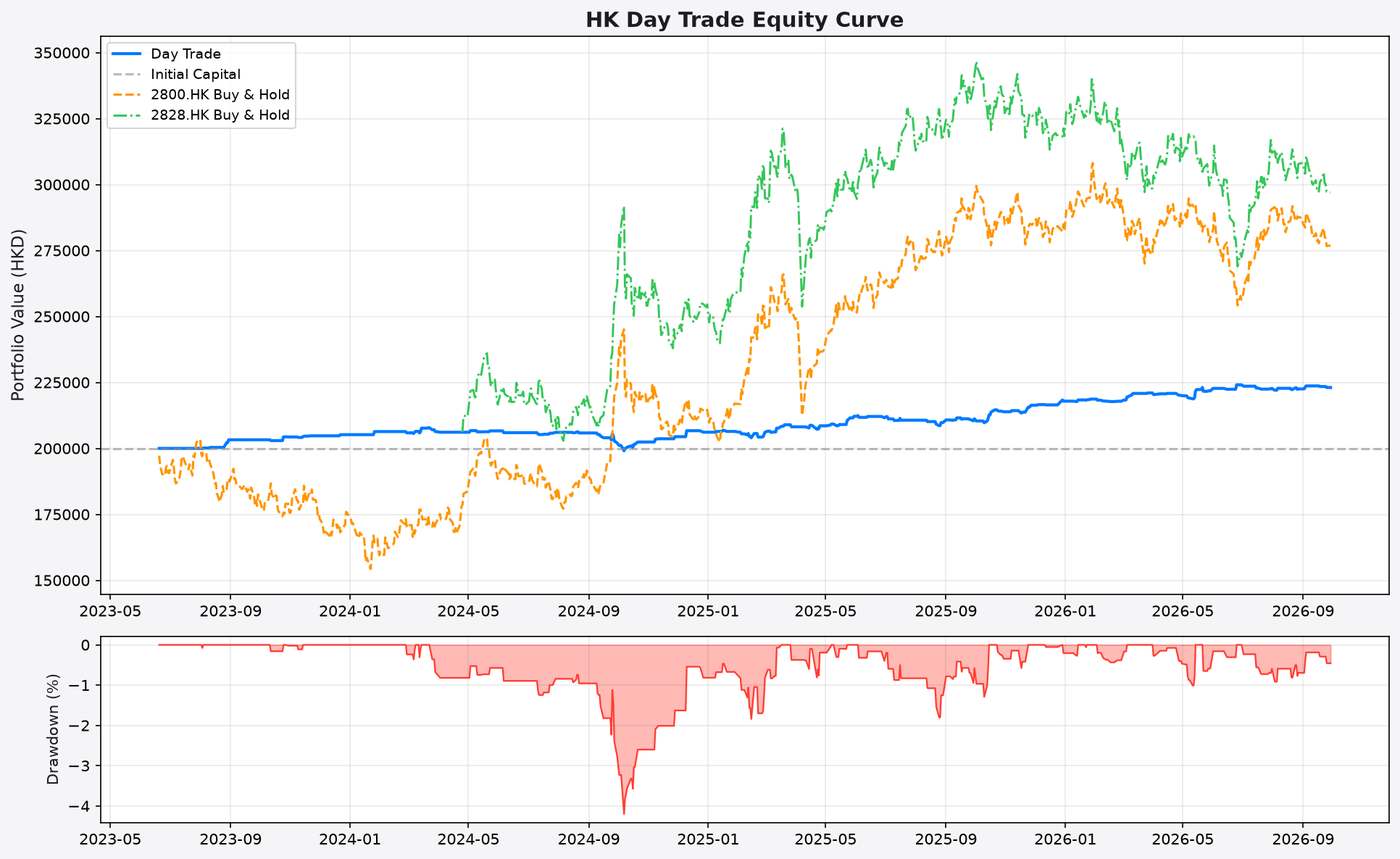
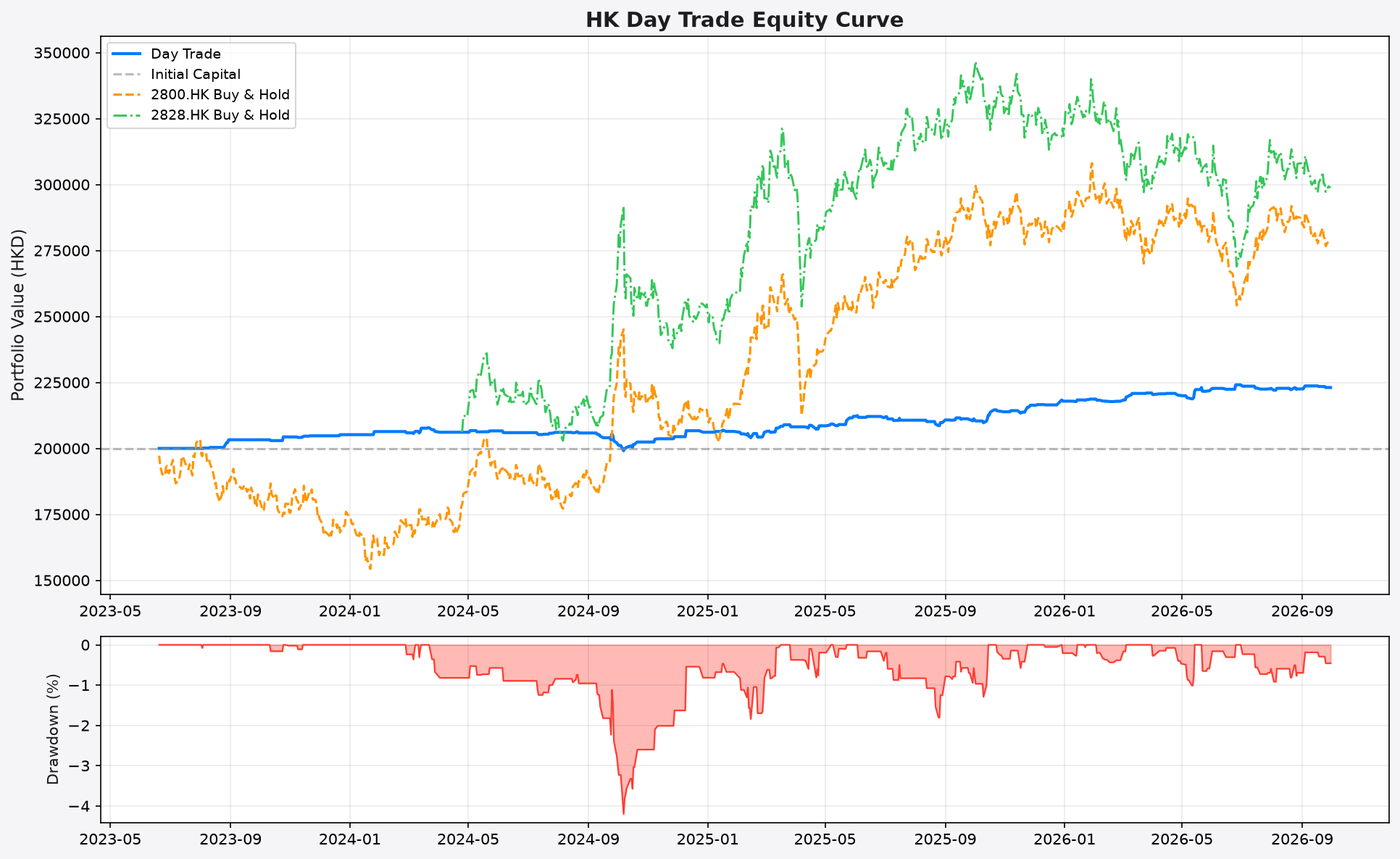
📊 AI Report v8.5 + Paper Trading (2026-09-30)

diff --git a/stock_report.html b/stock_report.html
@@ -3,7 +3,7 @@
 <head>
     <meta charset="utf-8">
     <meta name="viewport" content="width=device-width, initial-scale=1.0">
-    <title>AI 港股量化交易 v8.5 — 2026-09-29</title>
+    <title>AI 港股量化交易 v8.5 — 2026-09-30</title>
     <meta name="description" content="AI 驅動的港股量化交易系統 v8.5，完整風險報告、Benchmark 對比、OCO 智慧掛單建議">
     <script>
         (function() {
@@ -292,7 +292,7 @@
 
     <h1>🎯 AI 港股量化交易 v8.5</h1>
     <p class="subtitle">
-        Event-Driven System &nbsp;|&nbsp; 報表日期: 2026-09-29 &nbsp;|&nbsp;
+        Event-Driven System &nbsp;|&nbsp; 報表日期: 2026-09-30 &nbsp;|&nbsp;
         <span class="config-badge">🛡 ATR×3.0/3.0</span>
         <span class="config-badge">🌐 Universe-60</span>
         <span class="config-badge">🎯 Top-12</span>
@@ -305,11 +305,11 @@
     <div class="stats">
         <div class="stat-card">
             <div class="label">策略總報酬率</div>
-            <div class="value" style="color:#00ff00;">+59.1%</div>
+            <div class="value" style="color:#00ff00;">+61.4%</div>
         </div>
         <div class="stat-card">
             <div class="label">年化報酬率</div>
-            <div class="value" style="color:#00ff00;">+17.0%</div>
+            <div class="value" style="color:#00ff00;">+17.5%</div>
         </div>
         <div class="stat-card">
             <div class="label">年化波動率</div>
@@ -317,11 +317,11 @@
         </div>
         <div class="stat-card risk">
             <div class="label">Sharpe Ratio</div>
-            <div class="value" style="color:#00ff00;">0.79</div>
+            <div class="value" style="color:#00ff00;">0.81</div>
         </div>
         <div class="stat-card risk">
             <div class="label">Sortino Ratio</div>
-            <div class="value">1.03</div>
+            <div class="value">1.07</div>
         </div>
         <div class="stat-card risk">
             <div class="label">最大回撤</div>
@@ -329,7 +329,7 @@
         </div>
         <div class="stat-card risk">
             <div class="label">Calmar Ratio</div>
-            <div class="value">0.93</div>
+            <div class="value">0.96</div>
         </div>
         <div class="stat-card">
             <div class="label">完成交易數</div>
@@ -372,28 +372,28 @@
             </tr>
         </thead>
         <tbody>
-<tr><td>1548</td><td>5.40</td><td>41.4</td><td><span style="color:#00ff00; font-weight:bold;">🟢 建議買進 #1</span></td><td><b>停利:</b> <span style="color:#00ff00">50.2</span> (+21.4%) <br><b>停損:</b> <span style="color:#ff4444">32.6</span> (-21.4%) <br><b>最晚出場:</b> 2026-10-29</td><td><span style="font-size:0.72rem; color:#888;">歷史 <b>7</b>筆 | 勝率 <b style="color:#00ff00">57%</b> | 均報酬 <b style="color:#00ff00">+5.3%</b></span></td><td><span style="font-size:0.78rem;">⚪ 無資料<br><span style="color:#888; font-weight:bold;">+0.0%</span></span></td><td><span style="font-size:0.78rem;">⚪ 中性</span></td></tr>
-<tr><td>2269</td><td>5.31</td><td>53.5</td><td><span style="color:#00ff00; font-weight:bold;">🟢 建議買進 #2</span></td><td><b>停利:</b> <span style="color:#00ff00">59.3</span> (+10.9%) <br><b>停損:</b> <span style="color:#ff4444">47.7</span> (-10.9%) <br><b>最晚出場:</b> 2026-10-29</td><td><span style="font-size:0.72rem; color:#888;">歷史 <b>11</b>筆 | 勝率 <b style="color:#00ff00">55%</b> | 均報酬 <b style="color:#00ff00">+1.2%</b></span></td><td><span style="font-size:0.78rem;">⚪ 無資料<br><span style="color:#888; font-weight:bold;">+0.0%</span></span></td><td><span style="font-size:0.78rem;">⚪ 中性</span></td></tr>
-<tr><td>9926</td><td>5.30</td><td>106.3</td><td><span style="color:#00ff00; font-weight:bold;">🟢 建議買進 #3</span></td><td><b>停利:</b> <span style="color:#00ff00">121.2</span> (+14.0%) <br><b>停損:</b> <span style="color:#ff4444">91.4</span> (-14.0%) <br><b>最晚出場:</b> 2026-10-29</td><td><span style="font-size:0.72rem; color:#888;">歷史 <b>13</b>筆 | 勝率 <b style="color:#00ff00">62%</b> | 均報酬 <b style="color:#00ff00">+5.4%</b></span></td><td><span style="font-size:0.78rem;">⚪ 無資料<br><span style="color:#888; font-weight:bold;">+0.0%</span></span></td><td><span style="font-size:0.78rem;">⚪ 中性</span></td></tr>
-<tr><td>2359</td><td>5.19</td><td>207.8</td><td><span style="color:#00ff00; font-weight:bold;">🟢 建議買進 #4</span></td><td><b>停利:</b> <span style="color:#00ff00">227.6</span> (+9.5%) <br><b>停損:</b> <span style="color:#ff4444">188.0</span> (-9.5%) <br><b>最晚出場:</b> 2026-10-29</td><td><span style="font-size:0.72rem; color:#888;">歷史 <b>17</b>筆 | 勝率 <b style="color:#00ff00">65%</b> | 均報酬 <b style="color:#00ff00">+4.0%</b></span></td><td><span style="font-size:0.78rem;">⚪ 無資料<br><span style="color:#888; font-weight:bold;">+0.0%</span></span></td><td><span style="font-size:0.78rem;">⚪ 中性</span></td></tr>
-<tr><td>3328</td><td>5.08</td><td>8.2</td><td><span style="color:#00ff00; font-weight:bold;">🟢 建議買進 #5</span></td><td><b>停利:</b> <span style="color:#00ff00">8.7</span> (+6.0%) <br><b>停損:</b> <span style="color:#ff4444">7.8</span> (-6.0%) <br><b>最晚出場:</b> 2026-10-29</td><td><span style="font-size:0.72rem; color:#555;">歷史資料不足</span></td><td><span style="font-size:0.78rem;">⚪ 無資料<br><span style="color:#888; font-weight:bold;">+0.0%</span></span></td><td><span style="font-size:0.78rem;">⚪ 中性</span></td></tr>
-<tr><td>0688</td><td>4.97</td><td>13.4</td><td><span style="color:#00ff00; font-weight:bold;">🟢 建議買進 #6</span></td><td><b>停利:</b> <span style="color:#00ff00">14.8</span> (+10.3%) <br><b>停損:</b> <span style="color:#ff4444">12.0</span> (-10.3%) <br><b>最晚出場:</b> 2026-10-29</td><td><span style="font-size:0.72rem; color:#888;">歷史 <b>2</b>筆 | 勝率 <b style="color:#00ff00">50%</b> | 均報酬 <b style="color:#00ff00">+4.6%</b></span></td><td><span style="font-size:0.78rem;">⚪ 無資料<br><span style="color:#888; font-weight:bold;">+0.0%</span></span></td><td><span style="font-size:0.78rem;">⚪ 中性</span></td></tr>
-<tr><td>1093</td><td>4.76</td><td>9.5</td><td><span style="color:#00ff00; font-weight:bold;">🟢 建議買進 #7</span></td><td><b>停利:</b> <span style="color:#00ff00">10.5</span> (+10.6%) <br><b>停損:</b> <span style="color:#ff4444">8.5</span> (-10.6%) <br><b>最晚出場:</b> 2026-10-29</td><td><span style="font-size:0.72rem; color:#888;">歷史 <b>11</b>筆 | 勝率 <b style="color:#00ff00">73%</b> | 均報酬 <b style="color:#00ff00">+0.9%</b></span></td><td><span style="font-size:0.78rem;">⚪ 無資料<br><span style="color:#888; font-weight:bold;">+0.0%</span></span></td><td><span style="font-size:0.78rem;">⚪ 中性</span></td></tr>
-<tr><td>1288</td><td>4.72</td><td>6.6</td><td><span style="color:#00ff00; font-weight:bold;">🟢 建議買進 #8</span></td><td><b>停利:</b> <span style="color:#00ff00">7.1</span> (+7.2%) <br><b>停損:</b> <span style="color:#ff4444">6.1</span> (-7.2%) <br><b>最晚出場:</b> 2026-10-29</td><td><span style="font-size:0.72rem; color:#888;">歷史 <b>7</b>筆 | 勝率 <b style="color:#00ff00">57%</b> | 均報酬 <b style="color:#00ff00">+2.0%</b></span></td><td><span style="font-size:0.78rem;">⚪ 無資料<br><span style="color:#888; font-weight:bold;">+0.0%</span></span></td><td><span style="font-size:0.78rem;">⚪ 中性</span></td></tr>
-<tr><td>1177</td><td>4.68</td><td>5.6</td><td><span style="color:#00ff00; font-weight:bold;">🟢 建議買進 #9</span></td><td><b>停利:</b> <span style="color:#00ff00">6.3</span> (+12.7%) <br><b>停損:</b> <span style="color:#ff4444">4.8</span> (-12.7%) <br><b>最晚出場:</b> 2026-10-29</td><td><span style="font-size:0.72rem; color:#888;">歷史 <b>8</b>筆 | 勝率 <b style="color:#00ff00">75%</b> | 均報酬 <b style="color:#00ff00">+6.6%</b></span></td><td><span style="font-size:0.78rem;">⚪ 無資料<br><span style="color:#888; font-weight:bold;">+0.0%</span></span></td><td><span style="font-size:0.78rem;">⚪ 中性</span></td></tr>
-<tr><td>3988</td><td>4.67</td><td>6.0</td><td><span style="color:#00ff00; font-weight:bold;">🟢 建議買進 #10</span></td><td><b>停利:</b> <span style="color:#00ff00">6.4</span> (+6.1%) <br><b>停損:</b> <span style="color:#ff4444">5.6</span> (-6.1%) <br><b>最晚出場:</b> 2026-10-29</td><td><span style="font-size:0.72rem; color:#888;">歷史 <b>4</b>筆 | 勝率 <b style="color:#00ff00">50%</b> | 均報酬 <b style="color:#00ff00">+0.4%</b></span></td><td><span style="font-size:0.78rem;">⚪ 無資料<br><span style="color:#888; font-weight:bold;">+0.0%</span></span></td><td><span style="font-size:0.78rem;">⚪ 中性</span></td></tr>
-<tr><td>0939</td><td>4.59</td><td>9.7</td><td><span style="color:#00ff00; font-weight:bold;">🟢 建議買進 #11</span></td><td><b>停利:</b> <span style="color:#00ff00">10.3</span> (+6.5%) <br><b>停損:</b> <span style="color:#ff4444">9.1</span> (-6.5%) <br><b>最晚出場:</b> 2026-10-29</td><td><span style="font-size:0.72rem; color:#888;">歷史 <b>3</b>筆 | 勝率 <b style="color:#ff4444">33%</b> | 均報酬 <b style="color:#ff4444">-1.9%</b></span></td><td><span style="font-size:0.78rem;">⚪ 無資料<br><span style="color:#888; font-weight:bold;">+0.0%</span></span></td><td><span style="font-size:0.78rem;">⚪ 中性</span></td></tr>
-<tr><td>6160</td><td>4.52</td><td>217.8</td><td><span style="color:#00ff00; font-weight:bold;">🟢 建議買進 #12</span></td><td><b>停利:</b> <span style="color:#00ff00">235.7</span> (+8.2%) <br><b>停損:</b> <span style="color:#ff4444">199.9</span> (-8.2%) <br><b>最晚出場:</b> 2026-10-29</td><td><span style="font-size:0.72rem; color:#888;">歷史 <b>4</b>筆 | 勝率 <b style="color:#00ff00">50%</b> | 均報酬 <b style="color:#ff4444">-3.3%</b></span></td><td><span style="font-size:0.78rem;">⚪ 無資料<br><span style="color:#888; font-weight:bold;">+0.0%</span></span></td><td><span style="font-size:0.78rem;">⚪ 中性</span></td></tr>
-<tr style="opacity:0.6"><td>2388</td><td>4.26</td><td>52.0</td><td><span style="color:#ffab00">🟡 候選 (超出 Top-K)</span></td><td>-</td><td><span style="font-size:0.72rem; color:#888;">勝率 <b style="color:#ff4444">33%</b></span></td><td><span style="font-size:0.72rem;">⚪ 無資料<br><span style="color:#888">+0.0%</span></span></td><td><span style="font-size:0.72rem;">⚪ 中性</span></td></tr>
-<tr style="opacity:0.6"><td>1398</td><td>4.15</td><td>7.7</td><td><span style="color:#ffab00">🟡 候選 (超出 Top-K)</span></td><td>-</td><td><span style="font-size:0.72rem; color:#888;">勝率 <b style="color:#ff4444">40%</b></span></td><td><span style="font-size:0.72rem;">⚪ 無資料<br><span style="color:#888">+0.0%</span></span></td><td><span style="font-size:0.72rem;">⚪ 中性</span></td></tr>
-<tr style="opacity:0.6"><td>1919</td><td>3.96</td><td>16.5</td><td><span style="color:#ffab00">🟡 候選 (超出 Top-K)</span></td><td>-</td><td><span style="font-size:0.72rem; color:#888;">勝率 <b style="color:#00ff00">67%</b></span></td><td><span style="font-size:0.72rem;">⚪ 無資料<br><span style="color:#888">+0.0%</span></span></td><td><span style="font-size:0.72rem;">⚪ 中性</span></td></tr>
-<tr style="opacity:0.6"><td>3968</td><td>3.95</td><td>51.1</td><td><span style="color:#ffab00">🟡 候選 (超出 Top-K)</span></td><td>-</td><td><span style="font-size:0.72rem; color:#888;">勝率 <b style="color:#ff4444">40%</b></span></td><td><span style="font-size:0.72rem;">⚪ 無資料<br><span style="color:#888">+0.0%</span></span></td><td><span style="font-size:0.72rem;">⚪ 中性</span></td></tr>
-<tr style="opacity:0.6"><td>0941</td><td>3.93</td><td>79.3</td><td><span style="color:#ffab00">🟡 候選 (超出 Top-K)</span></td><td>-</td><td><span style="font-size:0.72rem; color:#888;">勝率 <b style="color:#00ff00">50%</b></span></td><td><span style="font-size:0.72rem;">⚪ 無資料<br><span style="color:#888">+0.0%</span></span></td><td><span style="font-size:0.72rem;">⚪ 中性</span></td></tr>
-<tr style="opacity:0.4"><td>9999</td><td>4.14</td><td>192.8</td><td><span style="color:#aaaaaa">⚪ 觀望 (低於 MA)</span></td><td>-</td><td>-</td><td style="color:#555">-</td><td style="color:#555">-</td></tr>
-<tr style="opacity:0.4"><td>1109</td><td>3.99</td><td>30.5</td><td><span style="color:#aaaaaa">⚪ 觀望 (低於 MA)</span></td><td>-</td><td>-</td><td style="color:#555">-</td><td style="color:#555">-</td></tr>
-<tr style="opacity:0.4"><td>9992</td><td>3.70</td><td>154.6</td><td><span style="color:#aaaaaa">⚪ 觀望 (低於 MA)</span></td><td>-</td><td>-</td><td style="color:#555">-</td><td style="color:#555">-</td></tr>
-<tr style="opacity:0.4"><td>0001</td><td>3.56</td><td>68.2</td><td><span style="color:#aaaaaa">⚪ 觀望 (低於 MA)</span></td><td>-</td><td>-</td><td style="color:#555">-</td><td style="color:#555">-</td></tr>
-<tr style="opacity:0.4"><td>0005</td><td>3.28</td><td>159.0</td><td><span style="color:#aaaaaa">⚪ 觀望 (低於 MA)</span></td><td>-</td><td>-</td><td style="color:#555">-</td><td style="color:#555">-</td></tr>
+<tr><td>1548</td><td>5.47</td><td>44.9</td><td><span style="color:#00ff00; font-weight:bold;">🟢 建議買進 #1</span></td><td><b>停利:</b> <span style="color:#00ff00">54.3</span> (+21.0%) <br><b>停損:</b> <span style="color:#ff4444">35.5</span> (-21.0%) <br><b>最晚出場:</b> 2026-10-30</td><td><span style="font-size:0.72rem; color:#888;">歷史 <b>7</b>筆 | 勝率 <b style="color:#00ff00">57%</b> | 均報酬 <b style="color:#00ff00">+5.3%</b></span></td><td><span style="font-size:0.78rem;">⚪ 無資料<br><span style="color:#888; font-weight:bold;">+0.0%</span></span></td><td><span style="font-size:0.78rem;">⚪ 中性</span></td></tr>
+<tr><td>2269</td><td>5.38</td><td>56.0</td><td><span style="color:#00ff00; font-weight:bold;">🟢 建議買進 #2</span></td><td><b>停利:</b> <span style="color:#00ff00">62.1</span> (+10.9%) <br><b>停損:</b> <span style="color:#ff4444">50.0</span> (-10.9%) <br><b>最晚出場:</b> 2026-10-30</td><td><span style="font-size:0.72rem; color:#888;">歷史 <b>11</b>筆 | 勝率 <b style="color:#00ff00">55%</b> | 均報酬 <b style="color:#00ff00">+1.2%</b></span></td><td><span style="font-size:0.78rem;">⚪ 無資料<br><span style="color:#888; font-weight:bold;">+0.0%</span></span></td><td><span style="font-size:0.78rem;">⚪ 中性</span></td></tr>
+<tr><td>2359</td><td>5.24</td><td>215.2</td><td><span style="color:#00ff00; font-weight:bold;">🟢 建議買進 #3</span></td><td><b>停利:</b> <span style="color:#00ff00">235.8</span> (+9.6%) <br><b>停損:</b> <span style="color:#ff4444">194.6</span> (-9.6%) <br><b>最晚出場:</b> 2026-10-30</td><td><span style="font-size:0.72rem; color:#888;">歷史 <b>17</b>筆 | 勝率 <b style="color:#00ff00">65%</b> | 均報酬 <b style="color:#00ff00">+4.0%</b></span></td><td><span style="font-size:0.78rem;">⚪ 無資料<br><span style="color:#888; font-weight:bold;">+0.0%</span></span></td><td><span style="font-size:0.78rem;">⚪ 中性</span></td></tr>
+<tr><td>9926</td><td>5.17</td><td>108.7</td><td><span style="color:#00ff00; font-weight:bold;">🟢 建議買進 #4</span></td><td><b>停利:</b> <span style="color:#00ff00">124.5</span> (+14.5%) <br><b>停損:</b> <span style="color:#ff4444">92.9</span> (-14.5%) <br><b>最晚出場:</b> 2026-10-30</td><td><span style="font-size:0.72rem; color:#888;">歷史 <b>13</b>筆 | 勝率 <b style="color:#00ff00">62%</b> | 均報酬 <b style="color:#00ff00">+5.4%</b></span></td><td><span style="font-size:0.78rem;">⚪ 無資料<br><span style="color:#888; font-weight:bold;">+0.0%</span></span></td><td><span style="font-size:0.78rem;">⚪ 中性</span></td></tr>
+<tr><td>1093</td><td>5.13</td><td>10.1</td><td><span style="color:#00ff00; font-weight:bold;">🟢 建議買進 #5</span></td><td><b>停利:</b> <span style="color:#00ff00">11.2</span> (+10.8%) <br><b>停損:</b> <span style="color:#ff4444">9.0</span> (-10.8%) <br><b>最晚出場:</b> 2026-10-30</td><td><span style="font-size:0.72rem; color:#888;">歷史 <b>11</b>筆 | 勝率 <b style="color:#00ff00">73%</b> | 均報酬 <b style="color:#00ff00">+0.9%</b></span></td><td><span style="font-size:0.78rem;">⚪ 無資料<br><span style="color:#888; font-weight:bold;">+0.0%</span></span></td><td><span style="font-size:0.78rem;">⚪ 中性</span></td></tr>
+<tr><td>3328</td><td>5.07</td><td>8.4</td><td><span style="color:#00ff00; font-weight:bold;">🟢 建議買進 #6</span></td><td><b>停利:</b> <span style="color:#00ff00">8.9</span> (+6.1%) <br><b>停損:</b> <span style="color:#ff4444">7.9</span> (-6.1%) <br><b>最晚出場:</b> 2026-10-30</td><td><span style="font-size:0.72rem; color:#555;">歷史資料不足</span></td><td><span style="font-size:0.78rem;">⚪ 無資料<br><span style="color:#888; font-weight:bold;">+0.0%</span></span></td><td><span style="font-size:0.78rem;">⚪ 中性</span></td></tr>
+<tr><td>1177</td><td>4.86</td><td>5.7</td><td><span style="color:#00ff00; font-weight:bold;">🟢 建議買進 #7</span></td><td><b>停利:</b> <span style="color:#00ff00">6.4</span> (+12.9%) <br><b>停損:</b> <span style="color:#ff4444">5.0</span> (-12.9%) <br><b>最晚出場:</b> 2026-10-30</td><td><span style="font-size:0.72rem; color:#888;">歷史 <b>8</b>筆 | 勝率 <b style="color:#00ff00">75%</b> | 均報酬 <b style="color:#00ff00">+6.6%</b></span></td><td><span style="font-size:0.78rem;">⚪ 無資料<br><span style="color:#888; font-weight:bold;">+0.0%</span></span></td><td><span style="font-size:0.78rem;">⚪ 中性</span></td></tr>
+<tr><td>6160</td><td>4.67</td><td>225.4</td><td><span style="color:#00ff00; font-weight:bold;">🟢 建議買進 #8</span></td><td><b>停利:</b> <span style="color:#00ff00">243.6</span> (+8.1%) <br><b>停損:</b> <span style="color:#ff4444">207.2</span> (-8.1%) <br><b>最晚出場:</b> 2026-10-30</td><td><span style="font-size:0.72rem; color:#888;">歷史 <b>4</b>筆 | 勝率 <b style="color:#00ff00">50%</b> | 均報酬 <b style="color:#ff4444">-3.3%</b></span></td><td><span style="font-size:0.78rem;">⚪ 無資料<br><span style="color:#888; font-weight:bold;">+0.0%</span></span></td><td><span style="font-size:0.78rem;">⚪ 中性</span></td></tr>
+<tr><td>3988</td><td>4.62</td><td>6.1</td><td><span style="color:#00ff00; font-weight:bold;">🟢 建議買進 #9</span></td><td><b>停利:</b> <span style="color:#00ff00">6.5</span> (+6.2%) <br><b>停損:</b> <span style="color:#ff4444">5.7</span> (-6.2%) <br><b>最晚出場:</b> 2026-10-30</td><td><span style="font-size:0.72rem; color:#888;">歷史 <b>4</b>筆 | 勝率 <b style="color:#00ff00">50%</b> | 均報酬 <b style="color:#00ff00">+0.4%</b></span></td><td><span style="font-size:0.78rem;">⚪ 無資料<br><span style="color:#888; font-weight:bold;">+0.0%</span></span></td><td><span style="font-size:0.78rem;">⚪ 中性</span></td></tr>
+<tr><td>0939</td><td>4.61</td><td>9.8</td><td><span style="color:#00ff00; font-weight:bold;">🟢 建議買進 #10</span></td><td><b>停利:</b> <span style="color:#00ff00">10.5</span> (+6.4%) <br><b>停損:</b> <span style="color:#ff4444">9.2</span> (-6.4%) <br><b>最晚出場:</b> 2026-10-30</td><td><span style="font-size:0.72rem; color:#888;">歷史 <b>3</b>筆 | 勝率 <b style="color:#ff4444">33%</b> | 均報酬 <b style="color:#ff4444">-1.9%</b></span></td><td><span style="font-size:0.78rem;">⚪ 無資料<br><span style="color:#888; font-weight:bold;">+0.0%</span></span></td><td><span style="font-size:0.78rem;">⚪ 中性</span></td></tr>
+<tr><td>1288</td><td>4.45</td><td>6.6</td><td><span style="color:#00ff00; font-weight:bold;">🟢 建議買進 #11</span></td><td><b>停利:</b> <span style="color:#00ff00">7.1</span> (+7.1%) <br><b>停損:</b> <span style="color:#ff4444">6.2</span> (-7.1%) <br><b>最晚出場:</b> 2026-10-30</td><td><span style="font-size:0.72rem; color:#888;">歷史 <b>7</b>筆 | 勝率 <b style="color:#00ff00">57%</b> | 均報酬 <b style="color:#00ff00">+2.0%</b></span></td><td><span style="font-size:0.78rem;">⚪ 無資料<br><span style="color:#888; font-weight:bold;">+0.0%</span></span></td><td><span style="font-size:0.78rem;">⚪ 中性</span></td></tr>
+<tr><td>0688</td><td>4.37</td><td>13.2</td><td><span style="color:#00ff00; font-weight:bold;">🟢 建議買進 #12</span></td><td><b>停利:</b> <span style="color:#00ff00">14.6</span> (+10.6%) <br><b>停損:</b> <span style="color:#ff4444">11.8</span> (-10.6%) <br><b>最晚出場:</b> 2026-10-30</td><td><span style="font-size:0.72rem; color:#888;">歷史 <b>2</b>筆 | 勝率 <b style="color:#00ff00">50%</b> | 均報酬 <b style="color:#00ff00">+4.6%</b></span></td><td><span style="font-size:0.78rem;">⚪ 無資料<br><span style="color:#888; font-weight:bold;">+0.0%</span></span></td><td><span style="font-size:0.78rem;">⚪ 中性</span></td></tr>
+<tr style="opacity:0.6"><td>1919</td><td>4.35</td><td>16.5</td><td><span style="color:#ffab00">🟡 候選 (超出 Top-K)</span></td><td>-</td><td><span style="font-size:0.72rem; color:#888;">勝率 <b style="color:#00ff00">67%</b></span></td><td><span style="font-size:0.72rem;">⚪ 無資料<br><span style="color:#888">+0.0%</span></span></td><td><span style="font-size:0.72rem;">⚪ 中性</span></td></tr>
+<tr style="opacity:0.6"><td>3692</td><td>4.29</td><td>35.3</td><td><span style="color:#ffab00">🟡 候選 (超出 Top-K)</span></td><td>-</td><td><span style="font-size:0.72rem; color:#888;">勝率 <b style="color:#ff4444">40%</b></span></td><td><span style="font-size:0.72rem;">⚪ 無資料<br><span style="color:#888">+0.0%</span></span></td><td><span style="font-size:0.72rem;">⚪ 中性</span></td></tr>
+<tr style="opacity:0.6"><td>1398</td><td>4.18</td><td>7.7</td><td><span style="color:#ffab00">🟡 候選 (超出 Top-K)</span></td><td>-</td><td><span style="font-size:0.72rem; color:#888;">勝率 <b style="color:#ff4444">40%</b></span></td><td><span style="font-size:0.72rem;">⚪ 無資料<br><span style="color:#888">+0.0%</span></span></td><td><span style="font-size:0.72rem;">⚪ 中性</span></td></tr>
+<tr style="opacity:0.6"><td>2388</td><td>4.17</td><td>52.2</td><td><span style="color:#ffab00">🟡 候選 (超出 Top-K)</span></td><td>-</td><td><span style="font-size:0.72rem; color:#888;">勝率 <b style="color:#ff4444">33%</b></span></td><td><span style="font-size:0.72rem;">⚪ 無資料<br><span style="color:#888">+0.0%</span></span></td><td><span style="font-size:0.72rem;">⚪ 中性</span></td></tr>
+<tr style="opacity:0.6"><td>3968</td><td>3.88</td><td>51.5</td><td><span style="color:#ffab00">🟡 候選 (超出 Top-K)</span></td><td>-</td><td><span style="font-size:0.72rem; color:#888;">勝率 <b style="color:#ff4444">40%</b></span></td><td><span style="font-size:0.72rem;">⚪ 無資料<br><span style="color:#888">+0.0%</span></span></td><td><span style="font-size:0.72rem;">⚪ 中性</span></td></tr>
+<tr style="opacity:0.4"><td>9999</td><td>4.17</td><td>192.6</td><td><span style="color:#aaaaaa">⚪ 觀望 (低於 MA)</span></td><td>-</td><td>-</td><td style="color:#555">-</td><td style="color:#555">-</td></tr>
+<tr style="opacity:0.4"><td>1109</td><td>3.92</td><td>30.6</td><td><span style="color:#aaaaaa">⚪ 觀望 (低於 MA)</span></td><td>-</td><td>-</td><td style="color:#555">-</td><td style="color:#555">-</td></tr>
+<tr style="opacity:0.4"><td>0001</td><td>3.57</td><td>68.7</td><td><span style="color:#aaaaaa">⚪ 觀望 (低於 MA)</span></td><td>-</td><td>-</td><td style="color:#555">-</td><td style="color:#555">-</td></tr>
+<tr style="opacity:0.4"><td>9992</td><td>3.13</td><td>152.6</td><td><span style="color:#aaaaaa">⚪ 觀望 (低於 MA)</span></td><td>-</td><td>-</td><td style="color:#555">-</td><td style="color:#555">-</td></tr>
+<tr style="opacity:0.4"><td>0669</td><td>3.09</td><td>129.0</td><td><span style="color:#aaaaaa">⚪ 觀望 (低於 MA)</span></td><td>-</td><td>-</td><td style="color:#555">-</td><td style="color:#555">-</td></tr>
 
         </tbody>
     </table>
@@ -405,7 +405,7 @@
     <div class="stats">
         <div class="stat-card benchmark">
             <div class="label">2800.HK 年化報酬</div>
-            <div class="value">+10.7%</div>
+            <div class="value">+10.9%</div>
         </div>
         <div class="stat-card benchmark">
             <div class="label">2800.HK 最大回撤</div>
@@ -417,14 +417,14 @@
         </div>
         <div class="stat-card" style="border-left-color:#00ff00">
             <div class="label">超額年化報酬 (α)</div>
-            <div class="value" style="color:#00ff00">+6.2%</div>
+            <div class="value" style="color:#00ff00">+6.6%</div>
         </div>
     </div>
 
     <div class="stats">
         <div class="stat-card benchmark">
             <div class="label">2828.HK 年化報酬</div>
-            <div class="value">+16.6%</div>
+            <div class="value">+16.9%</div>
         </div>
         <div class="stat-card benchmark">
             <div class="label">2828.HK 最大回撤</div>
@@ -432,11 +432,11 @@
         </div>
         <div class="stat-card benchmark">
             <div class="label">2828.HK Sharpe</div>
-            <div class="value">0.73</div>
+            <div class="value">0.74</div>
         </div>
         <div class="stat-card" style="border-left-color:#00ff00">
             <div class="label">超額 vs 2828.HK (共存期)</div>
-            <div class="value" style="color:#00ff00">+10.8%</div>
+            <div class="value" style="color:#00ff00">+12.2%</div>
         </div>
     </div>
     <img src="backtest_chart.png" alt="AI Quantitative Backtest Equity Curve with Benchmark">
@@ -451,19 +451,19 @@
         </div>
         <div class="stat-card benchmark">
             <div class="label">2800.HK 近 5 日</div>
-            <div class="value" style="color:#ff4444">-2.3%</div>
+            <div class="value" style="color:#ff4444">-0.7%</div>
         </div>
         <div class="stat-card benchmark">
             <div class="label">2800.HK 近 20 日</div>
-            <div class="value" style="color:#ff4444">-2.8%</div>
+            <div class="value" style="color:#ff4444">-2.3%</div>
         </div>
         <div class="stat-card benchmark">
             <div class="label">2800.HK 近 60 日</div>
-            <div class="value" style="color:#00ff00">+5.1%</div>
+            <div class="value" style="color:#00ff00">+2.4%</div>
         </div>
         <div class="stat-card risk">
             <div class="label">市場波動率 (20D)</div>
-            <div class="value">12.8%</div>
+            <div class="value">12.9%</div>
         </div>
     </div>
 
@@ -473,7 +473,7 @@
     <div class="stats">
         <div class="stat-card risk">
             <div class="label">目前回撤</div>
-            <div class="value" style="color:#ff4444">-15.6%</div>
+            <div class="value" style="color:#ff4444">-14.4%</div>
         </div>
         <div class="stat-card">
             <div class="label">權益最高點</div>
@@ -487,7 +487,7 @@
     <table>
         <thead><tr><th>#</th><th>開始日</th><th>恢復日</th><th>最大深度</th><th>持續天數</th></tr></thead>
         <tbody>
-<tr><td>#1</td><td>2026-01-30</td><td>2026-09-29</td><td style="color:#ff4444; font-weight:bold">-18.3%</td><td>242 天</td></tr>
+<tr><td>#1</td><td>2026-01-30</td><td>2026-09-30</td><td style="color:#ff4444; font-weight:bold">-18.3%</td><td>243 天</td></tr>
 <tr><td>#2</td><td>2024-10-08</td><td>2025-07-18</td><td style="color:#ff4444; font-weight:bold">-17.6%</td><td>283 天</td></tr>
 <tr><td>#3</td><td>2024-05-21</td><td>2024-09-27</td><td style="color:#ff4444; font-weight:bold">-14.6%</td><td>129 天</td></tr>
 <tr><td>#4</td><td>2023-11-29</td><td>2024-04-10</td><td style="color:#ff4444; font-weight:bold">-10.7%</td><td>133 天</td></tr>
@@ -502,7 +502,7 @@
     <div class="stats">
         <div class="stat-card" style="border-left-color:#ff4444">
             <div class="label">近 60 日 Sharpe</div>
-            <div class="value" style="color:#ff4444">0.15</div>
+            <div class="value" style="color:#ff4444">0.50</div>
         </div>
         <div class="stat-card">
             <div class="label">歷史平均 Sharpe</div>
@@ -666,7 +666,7 @@
 <tr style="background:rgba(255,68,68,0.22)"><td>2026-06</td><td style="color:#ff4444; font-weight:bold">-7.5%</td></tr>
 <tr style="background:rgba(0,255,0,0.04)"><td>2026-07</td><td style="color:#00ff00; font-weight:bold">+1.2%</td></tr>
 <tr style="background:rgba(255,68,68,0.04)"><td>2026-08</td><td style="color:#ff4444; font-weight:bold">-1.3%</td></tr>
-<tr style="background:rgba(255,68,68,0.04)"><td>2026-09</td><td style="color:#ff4444; font-weight:bold">-1.5%</td></tr>
+<tr style="background:rgba(255,68,68,0.00)"><td>2026-09</td><td style="color:#ff4444; font-weight:bold">-0.0%</td></tr>
 
         </tbody>
     </table>

diff --git a/paper_trading.html b/paper_trading.html
@@ -3,7 +3,7 @@
 <head>
     <meta charset="utf-8">
     <meta name="viewport" content="width=device-width, initial-scale=1.0">
-    <title>Paper Trading v8.5 — 2026-09-29</title>
+    <title>Paper Trading v8.5 — 2026-09-30</title>
     <meta name="description" content="HK Stocker v8.5 Paper Trading 實時績效追蹤">
     <script src="https://cdn.jsdelivr.net/npm/chart.js@4"></script>
     <style>
@@ -92,7 +92,7 @@
     <h1>📈 Paper Trading v8.5</h1>
     <p class="subtitle">
         <span class="badge badge-live">● LIVE</span>
-        起始日 2026-05-28 | 更新 2026-09-29 | 初始資金 200,000
+        起始日 2026-05-28 | 更新 2026-09-30 | 初始資金 200,000
     </p>
 
     <div class="metrics">
@@ -106,7 +106,7 @@
         </div>
         <div class="metric">
             <div class="label">年化報酬</div>
-            <div class="value green">+18.2%</div>
+            <div class="value green">+18.0%</div>
         </div>
         <div class="metric">
             <div class="label">最大回撤</div>
@@ -252,10 +252,10 @@ const ctx = document.getElementById('equityChart').getContext('2d');
 new Chart(ctx, {
     type: 'line',
     data: {
-        labels: ["2026-05-28", "2026-05-29", "2026-06-01", "2026-06-02", "2026-06-03", "2026-06-04", "2026-06-05", "2026-06-08", "2026-06-09", "2026-06-10", "2026-06-11", "2026-06-12", "2026-06-15", "2026-06-16", "2026-06-17", "2026-06-18", "2026-06-19", "2026-06-22", "2026-06-23", "2026-06-24", "2026-06-25", "2026-06-26", "2026-06-29", "2026-06-30", "2026-07-01", "2026-07-02", "2026-07-03", "2026-07-06", "2026-07-07", "2026-07-08", "2026-07-09", "2026-07-10", "2026-07-13", "2026-07-14", "2026-07-15", "2026-07-16", "2026-07-17", "2026-07-20", "2026-07-21", "2026-07-22", "2026-07-23", "2026-07-24", "2026-07-27", "2026-07-28", "2026-07-29", "2026-07-30", "2026-07-31", "2026-08-03", "2026-08-04", "2026-08-05", "2026-08-06", "2026-08-07", "2026-08-10", "2026-08-11", "2026-08-12", "2026-08-13", "2026-08-14", "2026-08-17", "2026-08-18", "2026-08-19", "2026-08-20", "2026-08-21", "2026-08-24", "2026-08-25", "2026-08-26", "2026-08-27", "2026-08-28", "2026-08-31", "2026-09-01", "2026-09-02", "2026-09-03", "2026-09-04", "2026-09-07", "2026-09-08", "2026-09-09", "2026-09-10", "2026-09-11", "2026-09-14", "2026-09-15", "2026-09-16", "2026-09-17", "2026-09-18", "2026-09-21", "2026-09-22", "2026-09-23", "2026-09-24", "2026-09-25", "2026-09-28", "2026-09-29"],
+        labels: ["2026-05-28", "2026-05-29", "2026-06-01", "2026-06-02", "2026-06-03", "2026-06-04", "2026-06-05", "2026-06-08", "2026-06-09", "2026-06-10", "2026-06-11", "2026-06-12", "2026-06-15", "2026-06-16", "2026-06-17", "2026-06-18", "2026-06-19", "2026-06-22", "2026-06-23", "2026-06-24", "2026-06-25", "2026-06-26", "2026-06-29", "2026-06-30", "2026-07-01", "2026-07-02", "2026-07-03", "2026-07-06", "2026-07-07", "2026-07-08", "2026-07-09", "2026-07-10", "2026-07-13", "2026-07-14", "2026-07-15", "2026-07-16", "2026-07-17", "2026-07-20", "2026-07-21", "2026-07-22", "2026-07-23", "2026-07-24", "2026-07-27", "2026-07-28", "2026-07-29", "2026-07-30", "2026-07-31", "2026-08-03", "2026-08-04", "2026-08-05", "2026-08-06", "2026-08-07", "2026-08-10", "2026-08-11", "2026-08-12", "2026-08-13", "2026-08-14", "2026-08-17", "2026-08-18", "2026-08-19", "2026-08-20", "2026-08-21", "2026-08-24", "2026-08-25", "2026-08-26", "2026-08-27", "2026-08-28", "2026-08-31", "2026-09-01", "2026-09-02", "2026-09-03", "2026-09-04", "2026-09-07", "2026-09-08", "2026-09-09", "2026-09-10", "2026-09-11", "2026-09-14", "2026-09-15", "2026-09-16", "2026-09-17", "2026-09-18", "2026-09-21", "2026-09-22", "2026-09-23", "2026-09-24", "2026-09-25", "2026-09-28", "2026-09-29", "2026-09-30"],
         datasets: [{
             label: 'Paper Trading 權益',
-            data: [200000, 200000, 200000, 200000, 200000, 200000, 200000, 200000, 200000, 200000, 200000, 200000, 200000, 200000, 200000, 200000, 200000, 200000, 200000, 200000, 200000, 200000, 200000, 200000, 200000, 200000, 200000, 200000, 200000, 200000, 200000, 200000, 200000, 200000, 200000, 200000, 200000, 200000, 200000, 200000, 200000, 200000, 200000, 200000, 200000, 200000, 200000, 200000, 200000, 200000, 200000, 200000, 200000, 200000, 200000, 200000, 200000, 203159.0, 206349.0, 207691.0, 212395.0, 213699.0, 210700.0, 213500.0, 212771.0, 212771.0, 212637.0, 212122.0, 211287.0, 211470.0, 211812.0, 209506.0, 208646.0, 210508.0, 209494.0, 207597.0, 207164.0, 209721.0, 208923.0, 209235.0, 211651.0, 212861.0, 212861.0, 212861.0, 212861.0, 212861.0, 212861.0, 212861.0, 212861.0],
+            data: [200000, 200000, 200000, 200000, 200000, 200000, 200000, 200000, 200000, 200000, 200000, 200000, 200000, 200000, 200000, 200000, 200000, 200000, 200000, 200000, 200000, 200000, 200000, 200000, 200000, 200000, 200000, 200000, 200000, 200000, 200000, 200000, 200000, 200000, 200000, 200000, 200000, 200000, 200000, 200000, 200000, 200000, 200000, 200000, 200000, 200000, 200000, 200000, 200000, 200000, 200000, 200000, 200000, 200000, 200000, 200000, 200000, 203159.0, 206349.0, 207691.0, 212395.0, 213699.0, 210700.0, 213500.0, 212771.0, 212771.0, 212637.0, 212122.0, 211287.0, 211470.0, 211812.0, 209506.0, 208646.0, 210508.0, 209494.0, 207597.0, 207164.0, 209721.0, 208923.0, 209235.0, 211651.0, 212861.0, 212861.0, 212861.0, 212861.0, 212861.0, 212861.0, 212861.0, 212861.0, 212861.0],
             borderColor: '#60a5fa',
             backgroundColor: 'rgba(96, 165, 250, 0.1)',
             fill: true,
@@ -264,7 +264,7 @@ new Chart(ctx, {
             borderWidth: 2,
         }, {
             label: '初始資金',
-            data: [200000, 200000, 200000, 200000, 200000, 200000, 200000, 200000, 200000, 200000, 200000, 200000, 200000, 200000, 200000, 200000, 200000, 200000, 200000, 200000, 200000, 200000, 200000, 200000, 200000, 200000, 200000, 200000, 200000, 200000, 200000, 200000, 200000, 200000, 200000, 200000, 200000, 200000, 200000, 200000, 200000, 200000, 200000, 200000, 200000, 200000, 200000, 200000, 200000, 200000, 200000, 200000, 200000, 200000, 200000, 200000, 200000, 200000, 200000, 200000, 200000, 200000, 200000, 200000, 200000, 200000, 200000, 200000, 200000, 200000, 200000, 200000, 200000, 200000, 200000, 200000, 200000, 200000, 200000, 200000, 200000, 200000, 200000, 200000, 200000, 200000, 200000, 200000, 200000],
+            data: [200000, 200000, 200000, 200000, 200000, 200000, 200000, 200000, 200000, 200000, 200000, 200000, 200000, 200000, 200000, 200000, 200000, 200000, 200000, 200000, 200000, 200000, 200000, 200000, 200000, 200000, 200000, 200000, 200000, 200000, 200000, 200000, 200000, 200000, 200000, 200000, 200000, 200000, 200000, 200000, 200000, 200000, 200000, 200000, 200000, 200000, 200000, 200000, 200000, 200000, 200000, 200000, 200000, 200000, 200000, 200000, 200000, 200000, 200000, 200000, 200000, 200000, 200000, 200000, 200000, 200000, 200000, 200000, 200000, 200000, 200000, 200000, 200000, 200000, 200000, 200000, 200000, 200000, 200000, 200000, 200000, 200000, 200000, 200000, 200000, 200000, 200000, 200000, 200000, 200000],
             borderColor: '#475569',
             borderDash: [5, 5],
             fill: false,

diff --git a/day_trade_report.html b/day_trade_report.html
@@ -3,7 +3,7 @@
 <head>
     <meta charset="utf-8">
     <meta name="viewport" content="width=device-width, initial-scale=1.0">
-    <title>AI 港股 Day Trade 報告 — 2026-09-29</title>
+    <title>AI 港股 Day Trade 報告 — 2026-09-30</title>
     <style>
         * { box-sizing: border-box; }
         body {
@@ -81,7 +81,7 @@
 <div class="container">
     <h1>⚡ AI 港股 Day Trade 報告</h1>
     <p class="subtitle">
-        報表日期：2026-09-29 ｜ 下一交易日：2026-09-30
+        報表日期：2026-09-30 ｜ 下一交易日：2026-10-02
         <br>
         <span class="badge">t-1 watchlist → t open trigger → t close exit</span>
         <span class="badge">SHORT</span>
@@ -107,17 +107,17 @@
 
     <h2>下一交易日 Day Trade 執行單</h2>
     <p class="section-note">
-        以 2026-09-29 收盤資料產生 watchlist；2026-09-30 開盤後只有符合 gap 條件才執行。
+        以 2026-09-30 收盤資料產生 watchlist；2026-10-02 開盤後只有符合 gap 條件才執行。
         預設為 short day trade，需確認標的可融券、可借券或有對應衍生工具。
     </p>
     <table>
         <thead><tr><th>股票代號</th><th>AI 評分</th><th>昨收參考</th><th>開盤觸發</th><th>狀態</th><th>日內執行計畫</th></tr></thead>
-        <tbody><tr style="opacity:1"><td>1548</td><td>4.89</td><td>41.40</td><td>開盤 gap +3.0% ~ +7.5%</td><td><span style="color:#ffab00;font-weight:bold;">🟢 建議 short day trade #1</span></td><td><b>估算進場:</b> 43.57<br><b>停利:</b> <span style="color:#00ff00">39.74</span> (8.8%)<br><b>停損:</b> <span style="color:#ff4444">45.93</span> (5.4%)<br><b>出場:</b> 當日收盤前</td></tr>
-<tr style="opacity:1"><td>9926</td><td>4.83</td><td>106.30</td><td>開盤 gap +3.0% ~ +7.5%</td><td><span style="color:#ffab00;font-weight:bold;">🟢 建議 short day trade #2</span></td><td><b>估算進場:</b> 111.88<br><b>停利:</b> <span style="color:#00ff00">105.44</span> (5.8%)<br><b>停損:</b> <span style="color:#ff4444">115.84</span> (3.5%)<br><b>出場:</b> 當日收盤前</td></tr>
-<tr style="opacity:1"><td>2269</td><td>4.77</td><td>53.50</td><td>開盤 gap +3.0% ~ +7.5%</td><td><span style="color:#ffab00;font-weight:bold;">🟢 建議 short day trade #3</span></td><td><b>估算進場:</b> 56.31<br><b>停利:</b> <span style="color:#00ff00">53.78</span> (4.5%)<br><b>停損:</b> <span style="color:#ff4444">57.86</span> (2.8%)<br><b>出場:</b> 當日收盤前</td></tr>
-<tr style="opacity:1"><td>2359</td><td>4.60</td><td>207.80</td><td>開盤 gap +3.0% ~ +7.5%</td><td><span style="color:#ffab00;font-weight:bold;">🟢 建議 short day trade #4</span></td><td><b>估算進場:</b> 218.71<br><b>停利:</b> <span style="color:#00ff00">210.15</span> (3.9%)<br><b>停損:</b> <span style="color:#ff4444">223.98</span> (2.4%)<br><b>出場:</b> 當日收盤前</td></tr>
-<tr style="opacity:0.45"><td>1109</td><td>3.80</td><td>30.46</td><td>-</td><td><span style="color:#aaaaaa;">⚪ 觀望（低於 MA30）</span></td><td>-</td></tr>
-<tr style="opacity:0.45"><td>0857</td><td>2.91</td><td>9.71</td><td>-</td><td><span style="color:#aaaaaa;">⚪ 觀望（低於 MA30）</span></td><td>-</td></tr>
+        <tbody><tr style="opacity:1"><td>1548</td><td>4.97</td><td>44.86</td><td>開盤 gap +3.0% ~ +7.5%</td><td><span style="color:#ffab00;font-weight:bold;">🟢 建議 short day trade #1</span></td><td><b>估算進場:</b> 47.22<br><b>停利:</b> <span style="color:#00ff00">43.14</span> (8.6%)<br><b>停損:</b> <span style="color:#ff4444">49.72</span> (5.3%)<br><b>出場:</b> 當日收盤前</td></tr>
+<tr style="opacity:1"><td>2269</td><td>4.77</td><td>56.05</td><td>開盤 gap +3.0% ~ +7.5%</td><td><span style="color:#ffab00;font-weight:bold;">🟢 建議 short day trade #2</span></td><td><b>估算進場:</b> 58.99<br><b>停利:</b> <span style="color:#00ff00">56.35</span> (4.5%)<br><b>停損:</b> <span style="color:#ff4444">60.62</span> (2.8%)<br><b>出場:</b> 當日收盤前</td></tr>
+<tr style="opacity:1"><td>9926</td><td>4.66</td><td>108.70</td><td>開盤 gap +3.0% ~ +7.5%</td><td><span style="color:#ffab00;font-weight:bold;">🟢 建議 short day trade #3</span></td><td><b>估算進場:</b> 114.41<br><b>停利:</b> <span style="color:#00ff00">107.56</span> (6.0%)<br><b>停損:</b> <span style="color:#ff4444">118.62</span> (3.7%)<br><b>出場:</b> 當日收盤前</td></tr>
+<tr style="opacity:1"><td>2359</td><td>4.57</td><td>215.20</td><td>開盤 gap +3.0% ~ +7.5%</td><td><span style="color:#ffab00;font-weight:bold;">🟢 建議 short day trade #4</span></td><td><b>估算進場:</b> 226.50<br><b>停利:</b> <span style="color:#00ff00">217.56</span> (3.9%)<br><b>停損:</b> <span style="color:#ff4444">232.00</span> (2.4%)<br><b>出場:</b> 當日收盤前</td></tr>
+<tr style="opacity:0.45"><td>0883</td><td>3.17</td><td>23.96</td><td>-</td><td><span style="color:#aaaaaa;">⚪ 觀望（低於 MA30）</span></td><td>-</td></tr>
+<tr style="opacity:0.45"><td>9992</td><td>2.91</td><td>152.60</td><td>-</td><td><span style="color:#aaaaaa;">⚪ 觀望（低於 MA30）</span></td><td>-</td></tr>
 </tbody>
     </table>
 
@@ -126,7 +126,7 @@
     <div class="stats">
         <div class="stat-card benchmark">
             <div class="label">2800.HK 年化報酬</div>
-            <div class="value">+11.2%</div>
+            <div class="value">+11.4%</div>
         </div>
         <div class="stat-card benchmark">
             <div class="label">2800.HK 最大回撤</div>
@@ -138,14 +138,14 @@
         </div>
         <div class="stat-card" style="border-left-color:#ff4444">
             <div class="label">年化 alpha vs 2800.HK</div>
-            <div class="value" style="color:#ff4444">-7.7%</div>
+            <div class="value" style="color:#ff4444">-7.9%</div>
         </div>
     </div>
 
     <div class="stats">
         <div class="stat-card benchmark">
             <div class="label">2828.HK 年化報酬</div>
-            <div class="value">+16.6%</div>
+            <div class="value">+16.9%</div>
         </div>
         <div class="stat-card benchmark">
             <div class="label">2828.HK 最大回撤</div>
@@ -153,11 +153,11 @@
         </div>
         <div class="stat-card benchmark">
             <div class="label">2828.HK Sharpe</div>
-            <div class="value">0.73</div>
+            <div class="value">0.74</div>
         </div>
         <div class="stat-card" style="border-left-color:#ff4444">
             <div class="label">超額 vs 2828.HK (共存期)</div>
-            <div class="value" style="color:#ff4444">-35.9%</div>
+            <div class="value" style="color:#ff4444">-36.7%</div>
         </div>
     </div>
     <img src="day_trade_chart.png" alt="HK day trade equity curve">
